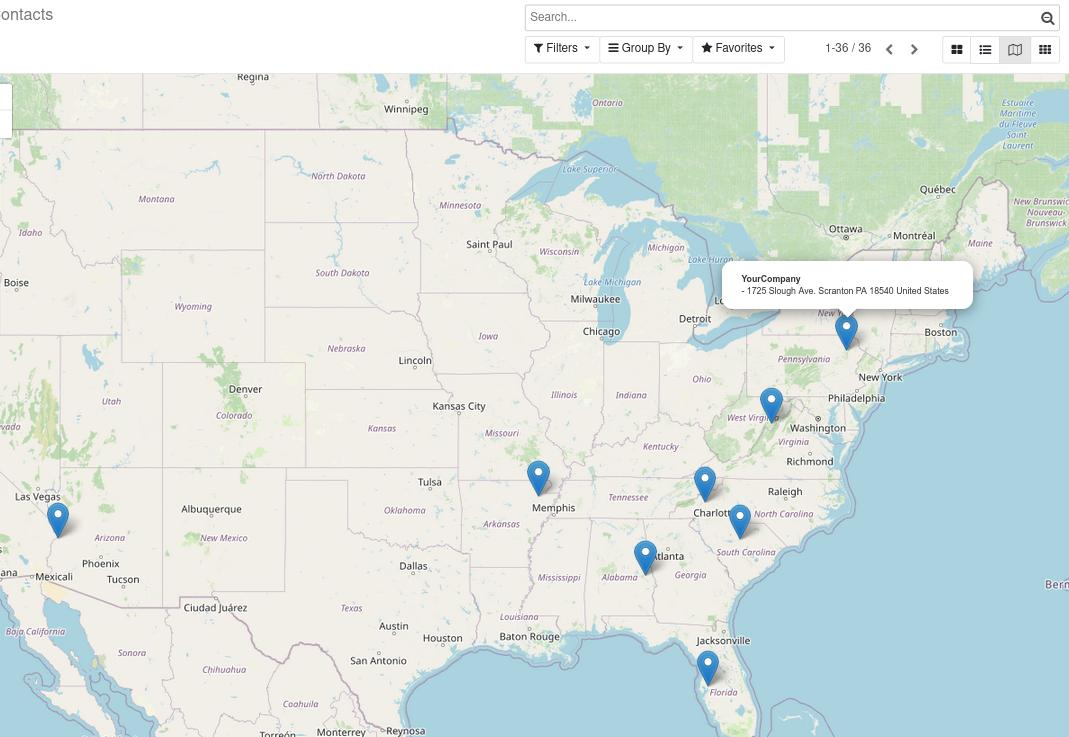
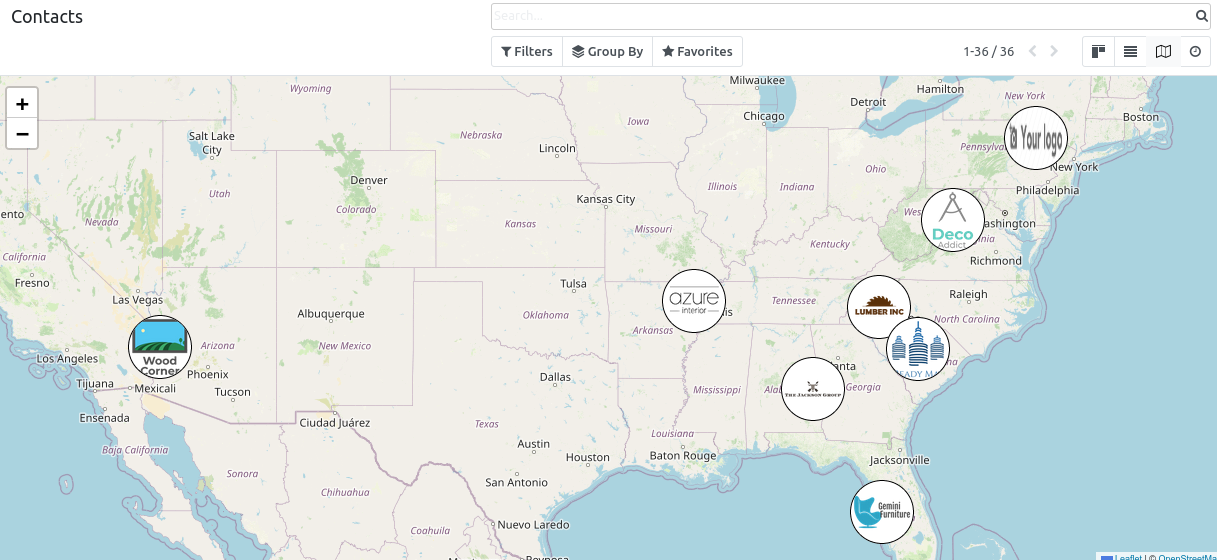
[MIG] web_view_leaflet_map, web_view_leaflet_map_partner in V16

diff --git a/web_view_leaflet_map_partner/__manifest__.py b/web_view_leaflet_map_partner/__manifest__.py
@@ -1,7 +1,7 @@
 {
     "name": "Leaflet Map View for Partners (OpenStreetMap)",
     "summary": "TODO",
-    "version": "12.0.1.0.1",
+    "version": "16.0.1.0.0",
     "development_status": "Alpha",
     "author": "GRAP, Odoo Community Association (OCA)",
     "website": "https://github.com/OCA/geospatial",
